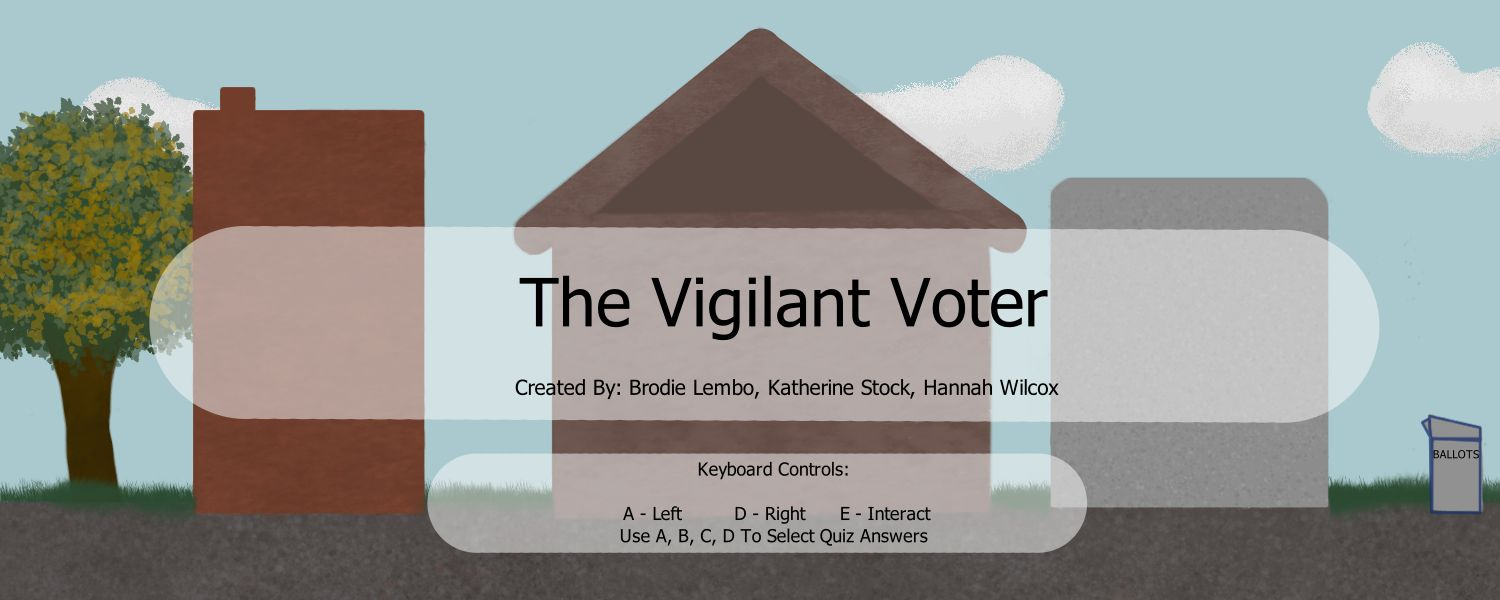
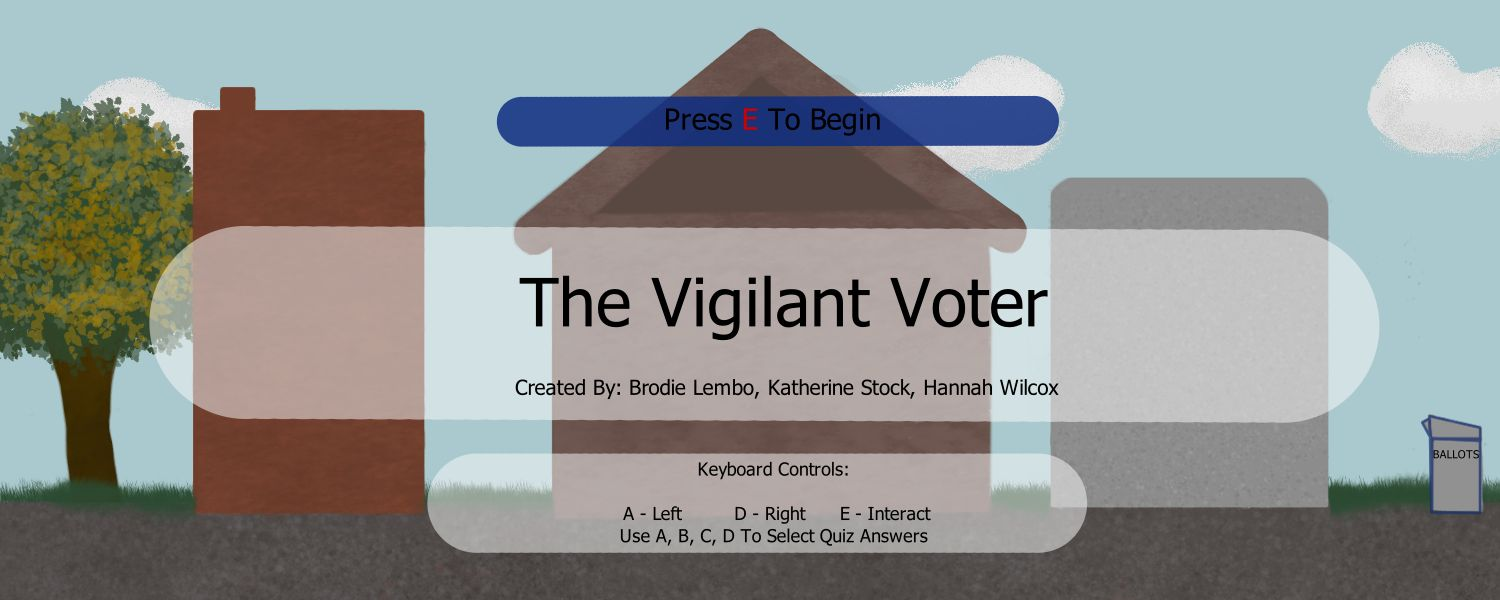
updated title screen more

Changed region(s): [[0.3067, 0.15, 0.7053, 0.27]]

diff --git a/main.py b/main.py
@@ -15,6 +15,7 @@ preRunning = True
 while preRunning:
     bg = pygame.image.load("titlescreen.jpg")
     Prescreen.blit(bg, (0, 0))
+    pygame.display.update()
     for event in pygame.event.get():
         if event.type == pygame.QUIT:
             preRunning = False
@@ -83,6 +84,7 @@ while running:
     # Check for collision with npcs
     p1.collision(npc1)
     p1.collision(npc2)
+    print(p1.collidedObject)
     for event in pygame.event.get():
         if event.type == pygame.QUIT:
             running = False
